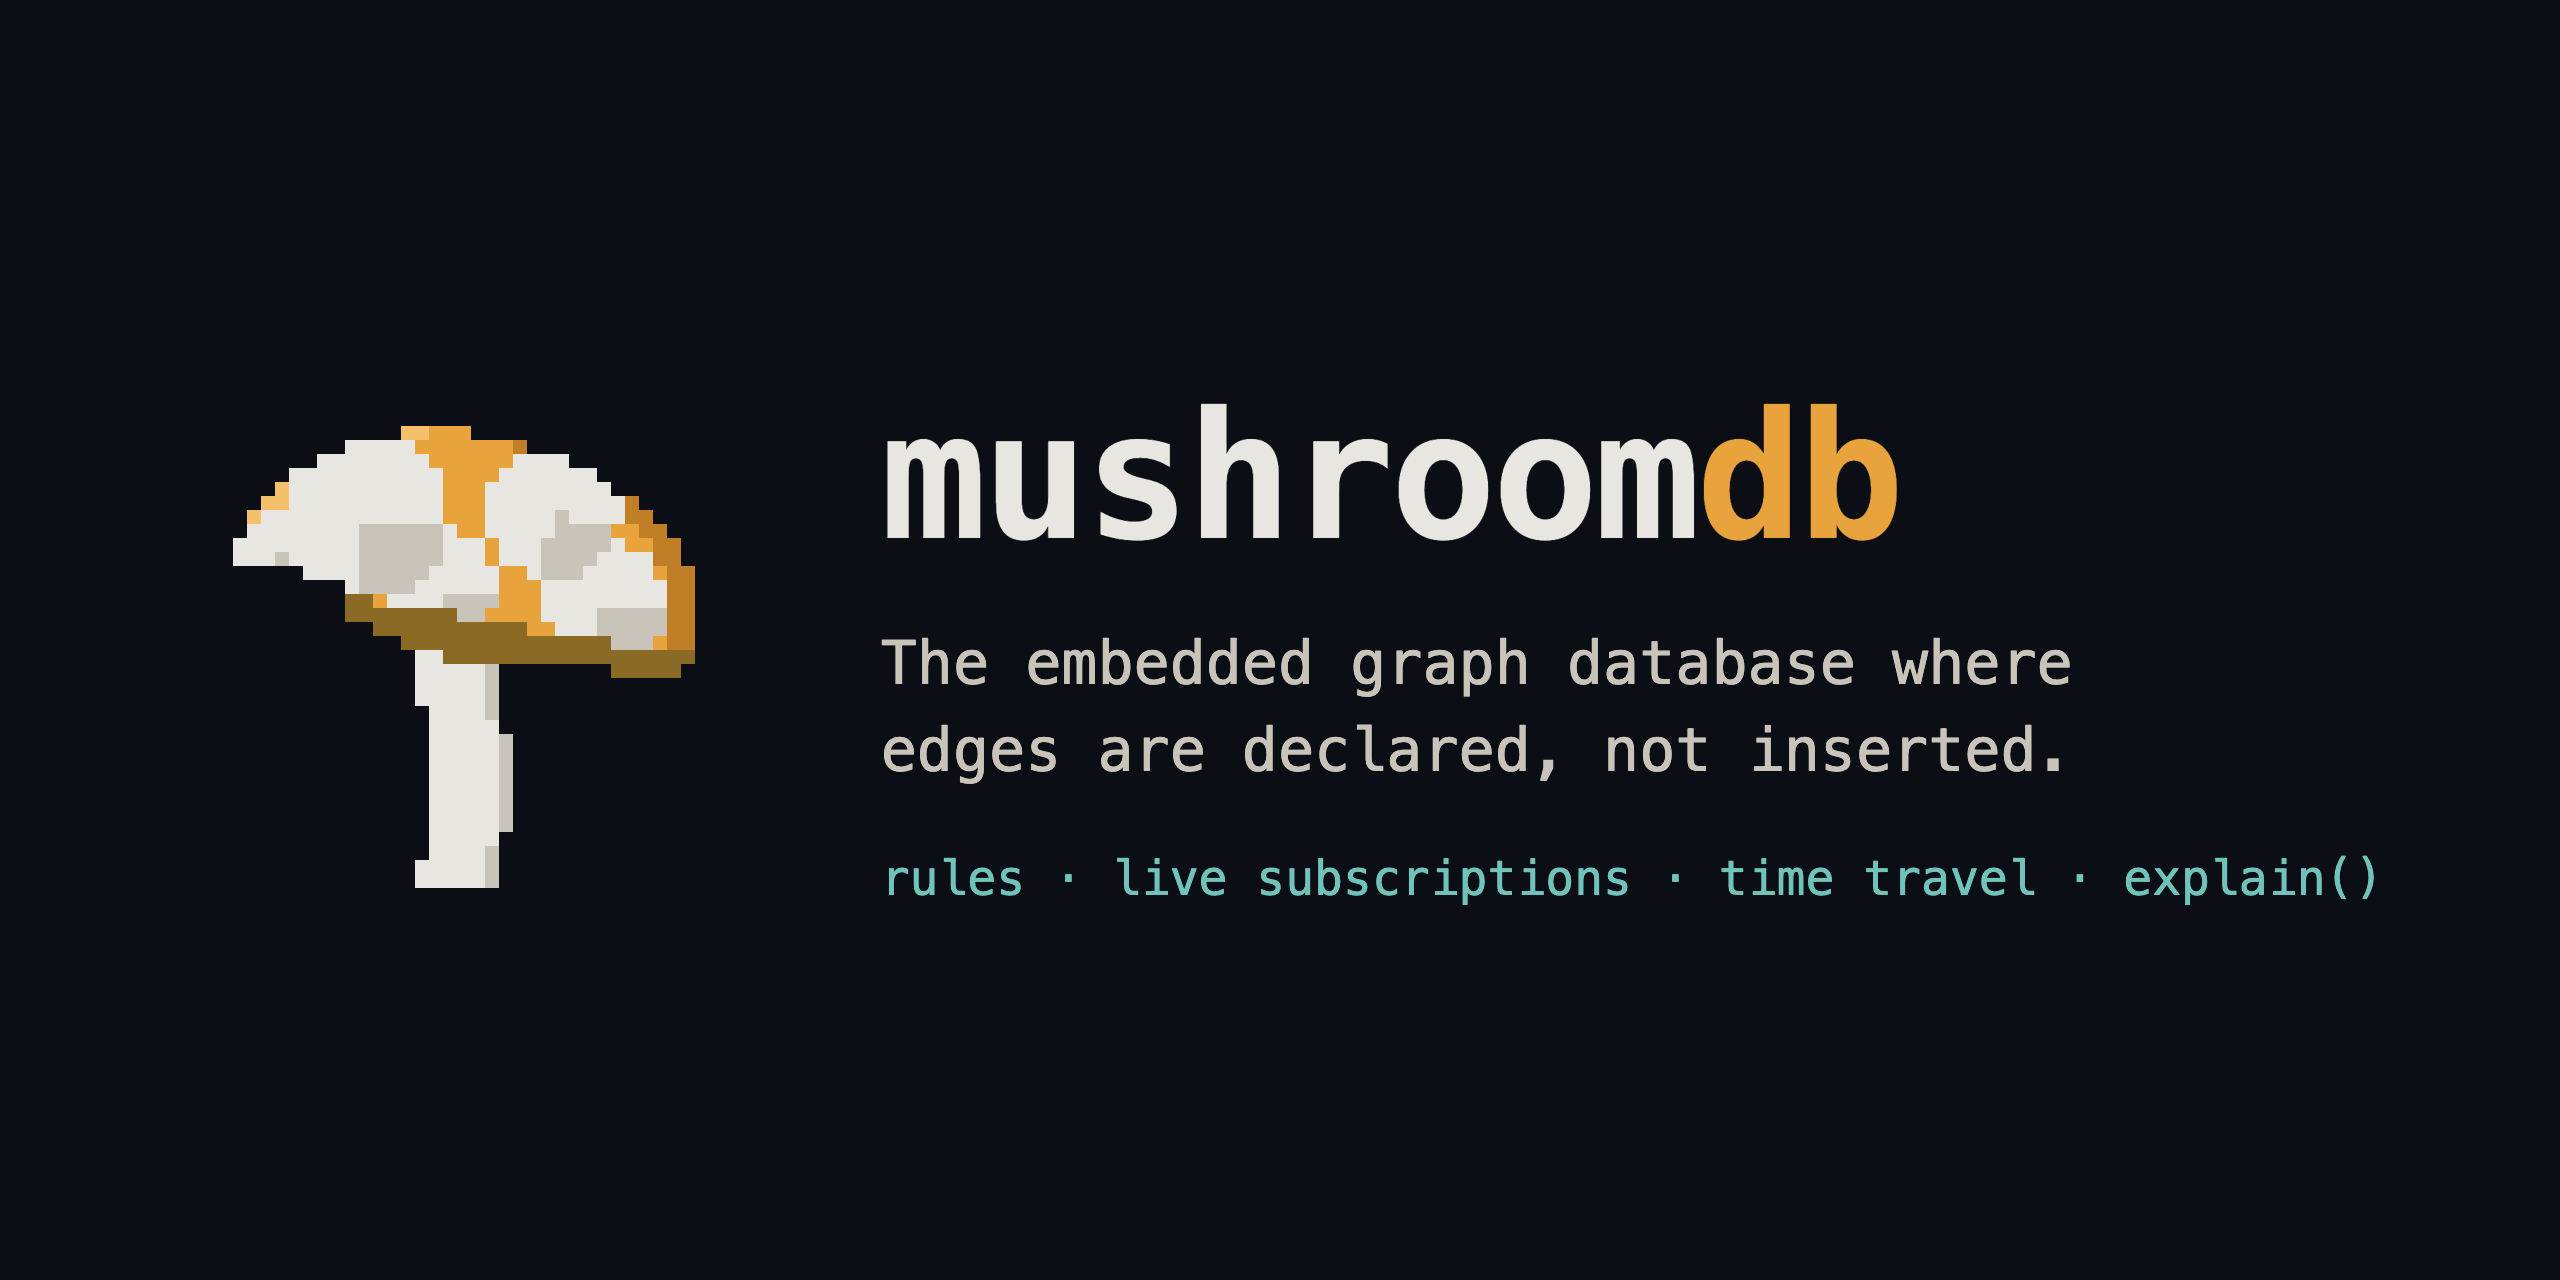
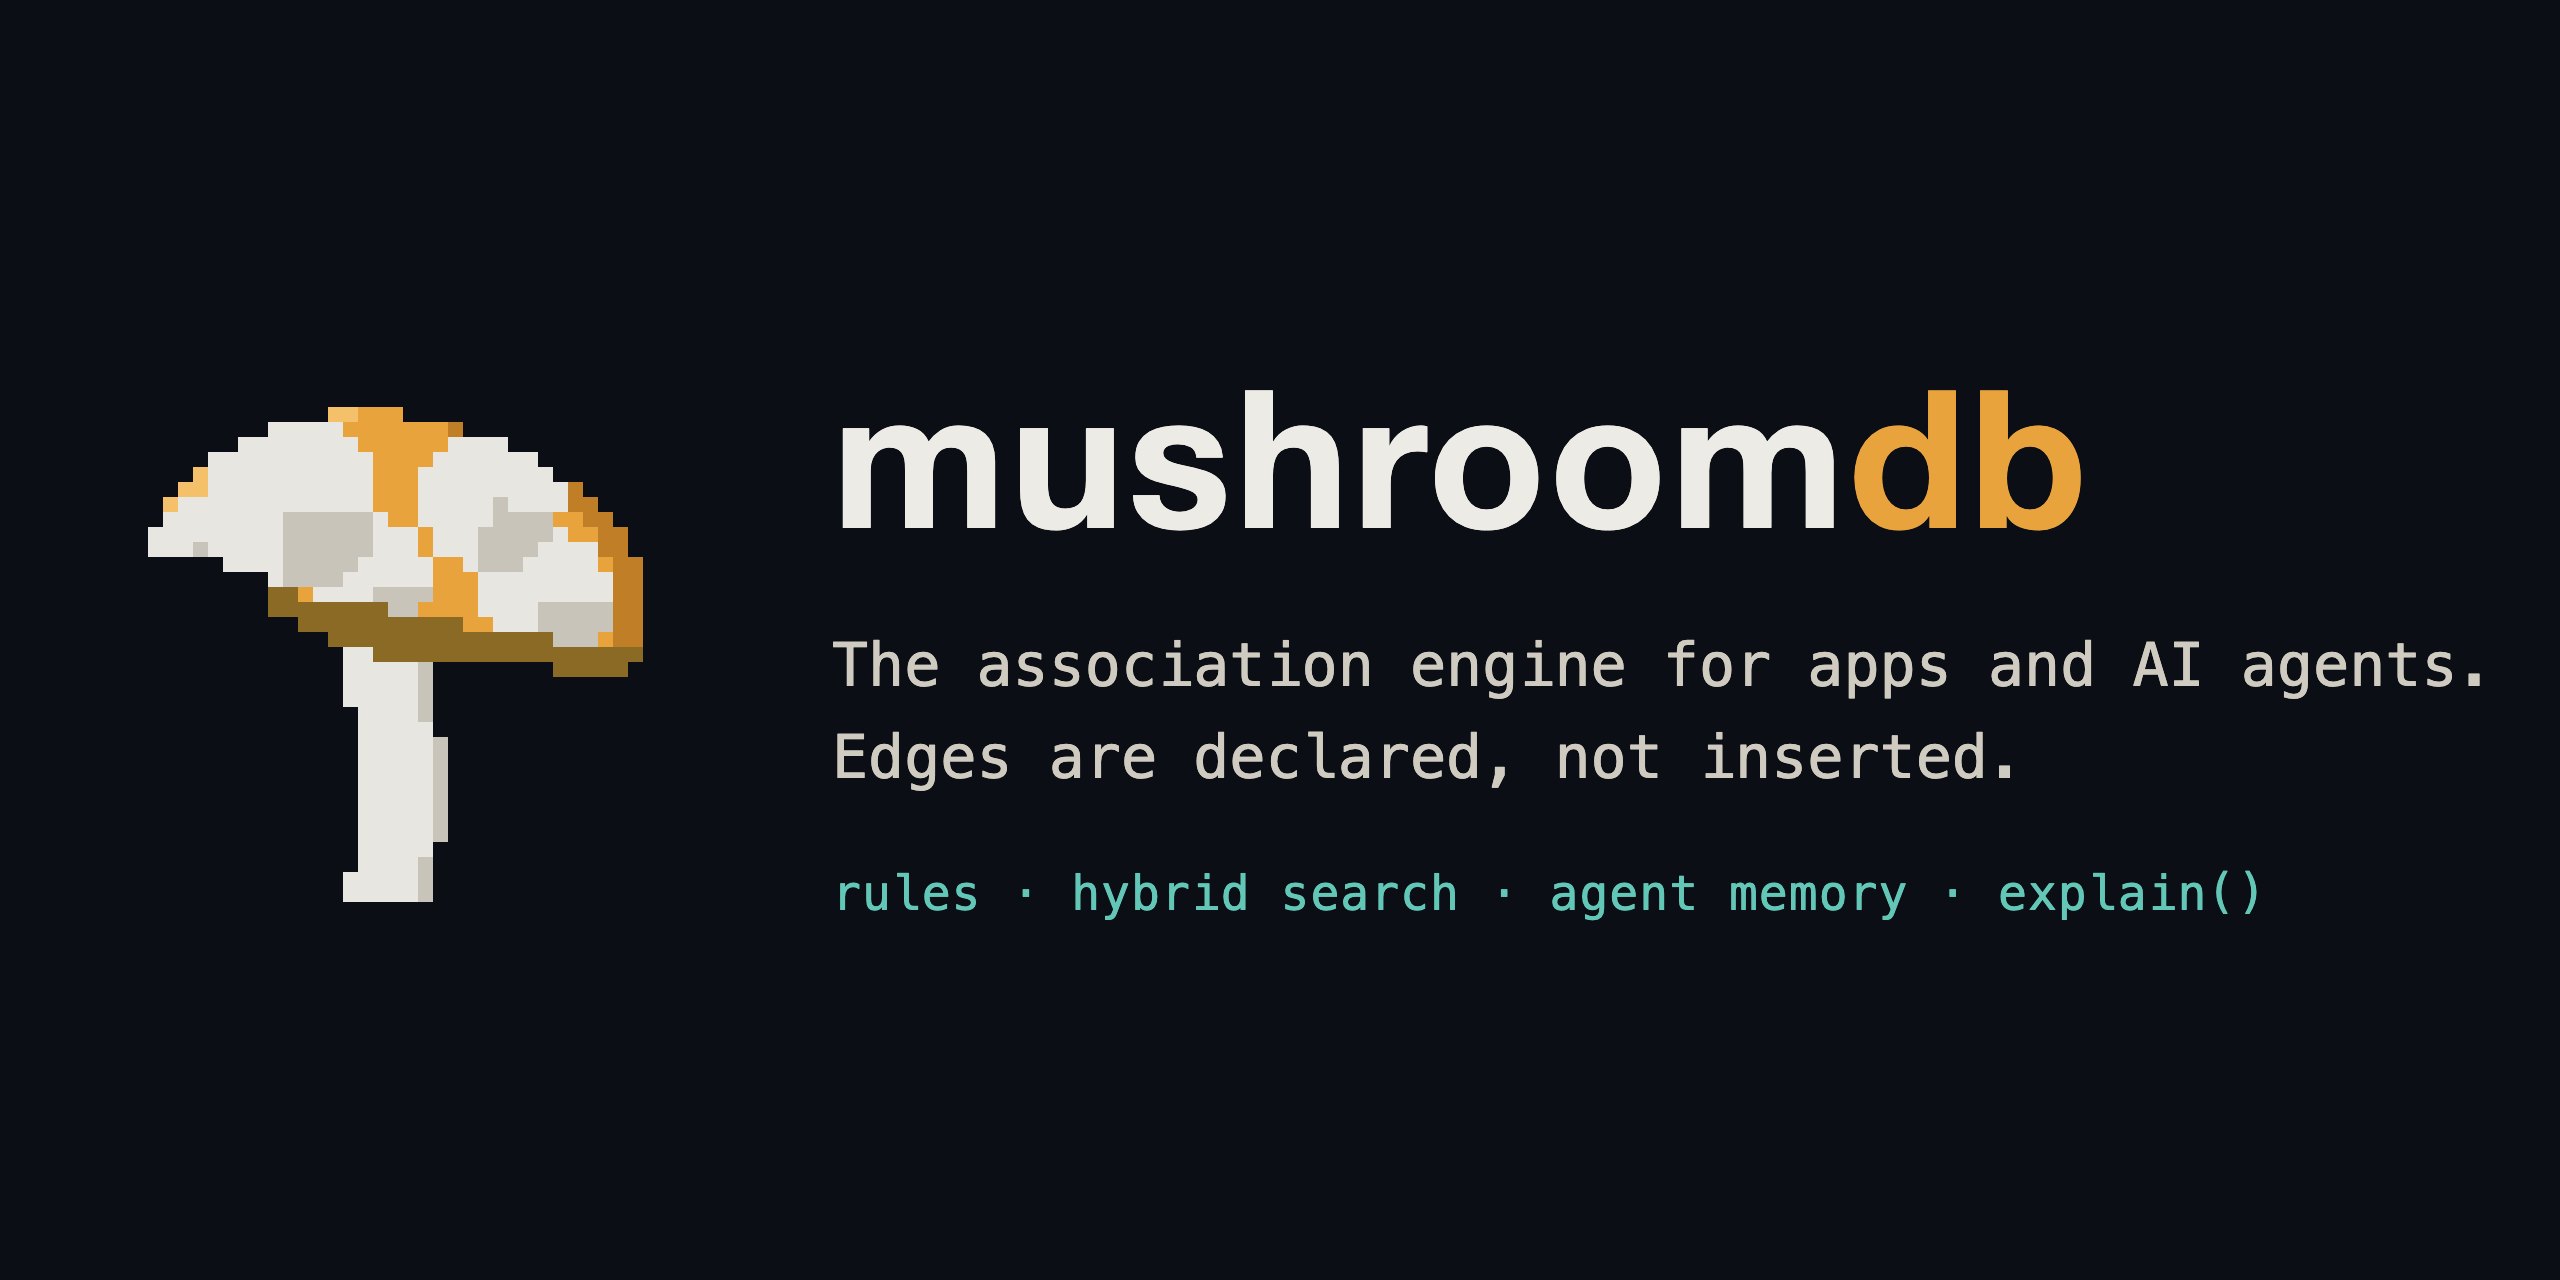
docs: social preview card refresh — association engine positioning, regenerable source

diff --git a/docs/assets/social-preview.html b/docs/assets/social-preview.html
@@ -1,0 +1,54 @@
+<!doctype html>
+<!-- Source for the GitHub social preview card. Regenerate the PNG with:
+     ui/ $ node scripts/render-social-preview.mjs
+     (renders this file at 1280x640 @2x -> docs/assets/social-preview.png) -->
+<html lang="en">
+<head>
+<meta charset="utf-8" />
+<style>
+  * { margin: 0; padding: 0; box-sizing: border-box; }
+  html, body { width: 1280px; height: 640px; }
+  body {
+    background: #0B0E14;
+    display: flex;
+    align-items: center;
+    justify-content: center;
+    gap: 72px;
+    font-family: "Menlo", "SF Mono", "DejaVu Sans Mono", monospace;
+  }
+  .mark { width: 300px; height: 300px; flex: none; margin-top: -8px; }
+  .text { max-width: 820px; }
+  .wordmark {
+    font-family: "Helvetica Neue", Arial, sans-serif;
+    font-weight: 800;
+    font-size: 96px;
+    letter-spacing: 2px;
+    color: #EDEBE6;
+    line-height: 1;
+  }
+  .wordmark b { color: #E8A33D; font-weight: 800; }
+  .sub {
+    margin-top: 34px;
+    font-size: 30px;
+    line-height: 1.55;
+    color: #CFCBC0;
+    white-space: nowrap;
+  }
+  .chips {
+    margin-top: 30px;
+    font-size: 24px;
+    color: #63C7B8;
+    letter-spacing: 0.5px;
+    white-space: nowrap;
+  }
+</style>
+</head>
+<body>
+  <img class="mark" src="mark.svg" alt="" />
+  <div class="text">
+    <div class="wordmark">mushroom<b>db</b></div>
+    <div class="sub">The association engine for apps and AI agents.<br/>Edges are declared, not inserted.</div>
+    <div class="chips">rules &middot; hybrid search &middot; agent memory &middot; explain()</div>
+  </div>
+</body>
+</html>
